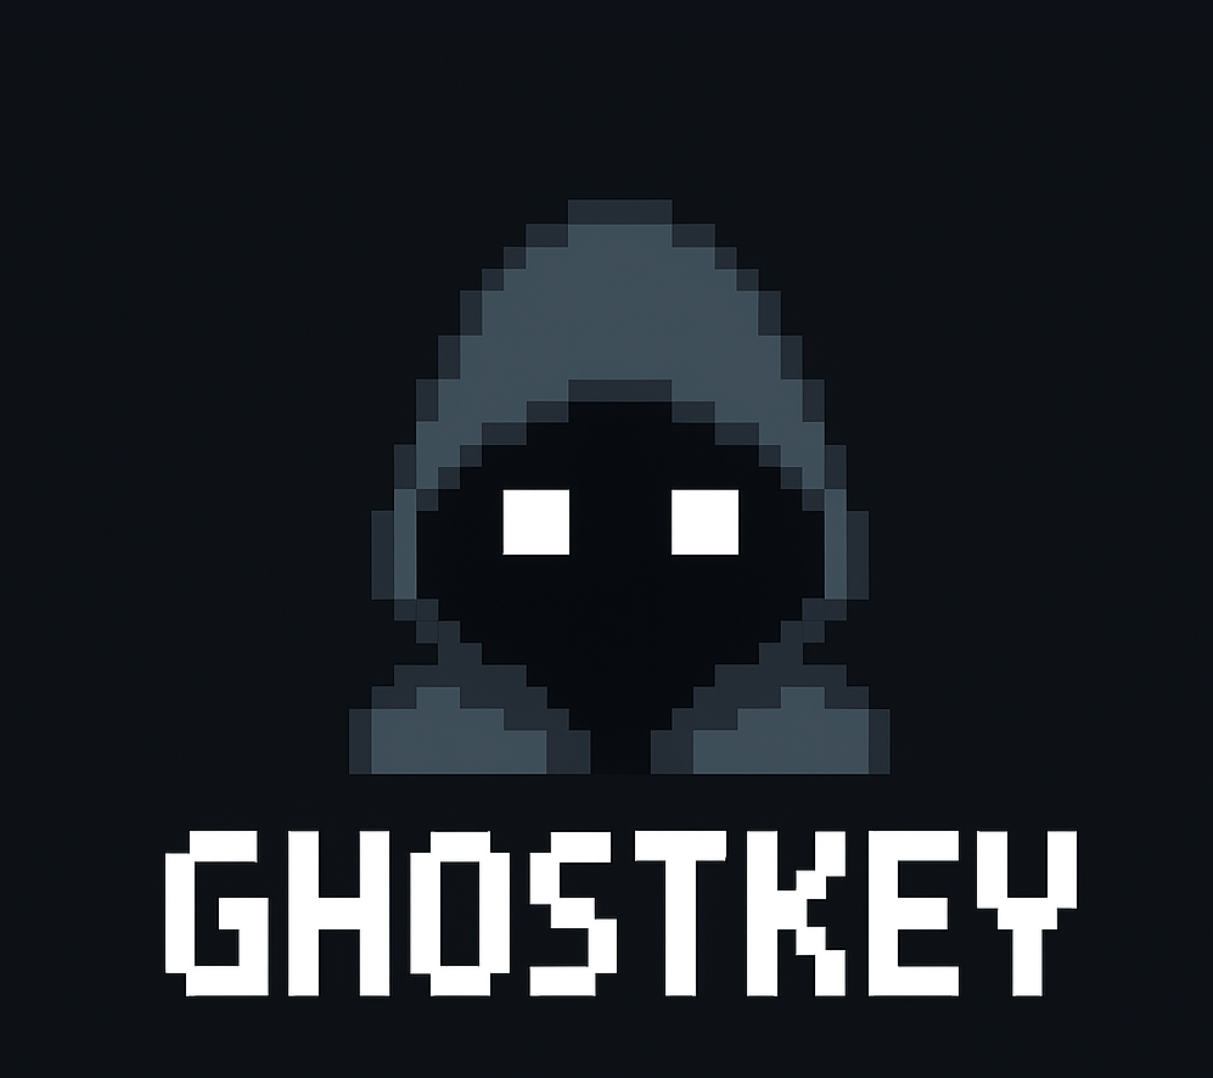
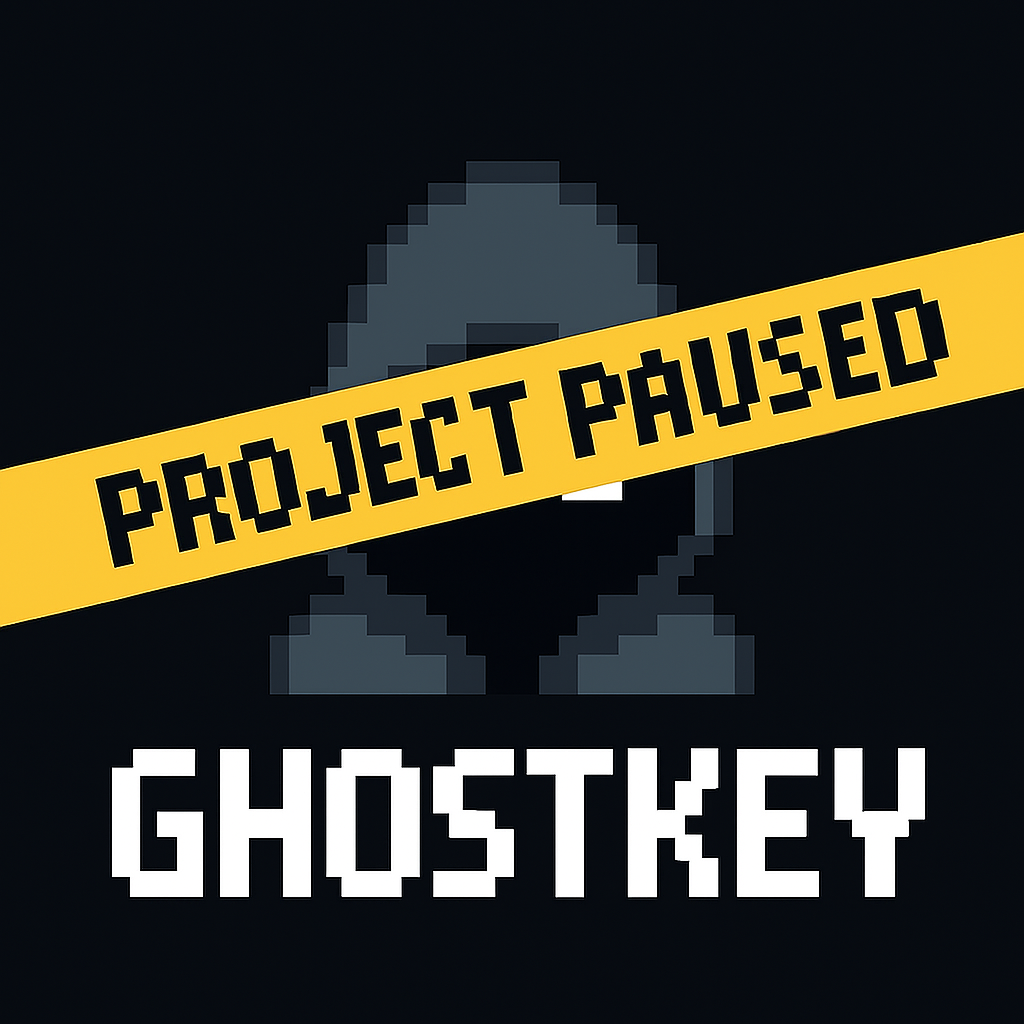
project paused

Changed region(s): [[0.0, 0.1562, 1.0, 0.9375]]

diff --git a/projects/ghostkey.html b/projects/ghostkey.html
@@ -56,7 +56,10 @@
                         <p><strong>GhostKey</strong> is a compact, open-source plug-and-play USB device inspired by
                             Rubber Ducky and Flipper Zero that delivers preconfigured or custom keyboard injection
                             payloads to Windows, macOS, and Linux, featuring a pixel-art mascot and a stealthy UI.</p>
-                        <p><em>Note: GhostKey is currently a work in progress and under active development.</em></p>
+                        <p><em>Note: After careful consideration, we’ve decided to pause the GhostKey project for the
+                                time being due to limited resources and shifting priorities. We appreciate all the
+                                support so far and will share updates once we’re ready to pick things back up. Thank you
+                                for your patience and understanding.</em></p>
                     </div>
 
                 </div>
